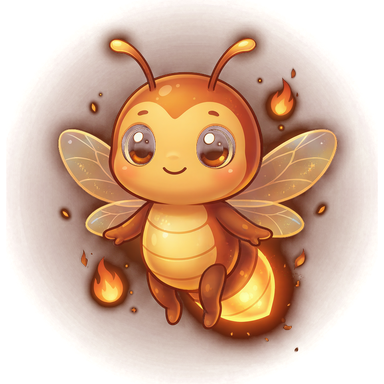
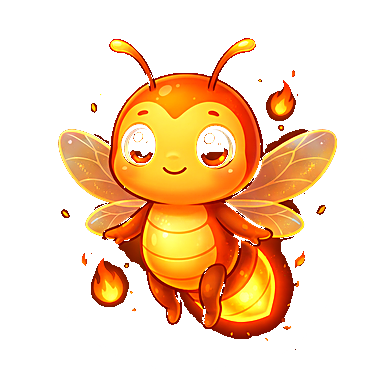
Store costumes: vivid skin art without the baked dark disc, stronger glow
Claude-Session: https://claude.ai/code/session_01XSzBb2Ywxk4UWRCQCFNsUV

diff --git a/src/ui/StorePanel.tsx b/src/ui/StorePanel.tsx
@@ -558,7 +558,7 @@ const SKIN_ART: Record<SkinId | 'default', number> = {
 function SkinArt({ id, color, locked }: { id: SkinId | null; color: string; locked: boolean }) {
   return (
     <View style={styles.skinWrap}>
-      <SoftGlow size={150} color={color} style={{ opacity: 0.5 }} />
+      <SoftGlow size={170} color={color} style={{ opacity: 0.75 }} />
       <Image source={SKIN_ART[id ?? 'default']} style={[styles.skinImg, locked && styles.skinLocked]} resizeMode="contain" />
     </View>
   );
@@ -678,7 +678,7 @@ const styles = StyleSheet.create({
   skinArt: { height: 128, alignSelf: 'stretch', alignItems: 'center', justifyContent: 'center' },
   skinWrap: { width: 128, height: 128, alignItems: 'center', justifyContent: 'center' },
   skinImg: { width: 128, height: 128 },
-  skinLocked: { opacity: 0.85 },
+  skinLocked: { opacity: 1 },
   pileChest: { position: 'absolute', left: 30, top: -6, width: 80, height: 80, opacity: 0.95 },
   offers: { gap: 12 },
   legal: { marginTop: -4, paddingHorizontal: 6, gap: 6 },
